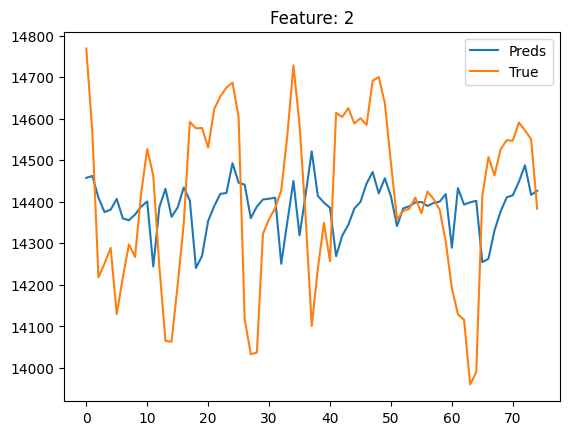
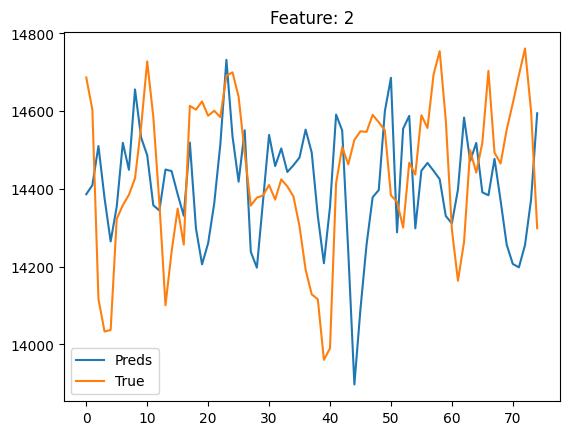
..

diff --git a/train.py b/train.py
@@ -18,9 +18,9 @@ def evaluate(model, loader, criterion):
 	with torch.no_grad():
 		for x, y in loader:
 			y_hat = model(x)
-			if y_hat.ndim == 2:
+			if y_hat.ndim == 3:
 				y_hat = y_hat.squeeze(1)
-			if y.ndim == 2:
+			if y.ndim == 3:
 				y = y.squeeze(1)
 
 			loss = criterion(y_hat, y)
@@ -29,7 +29,7 @@ def evaluate(model, loader, criterion):
 	return np.sqrt(np.array(losses).mean())
 
 
-def predict(model, loader, scaler, plot_name=''):
+def predict(model, loader, scaler, target_col=None, plot_name=''):
 	model.eval()
 
 	preds = []
@@ -46,12 +46,15 @@ def predict(model, loader, scaler, plot_name=''):
 	#	preds = model(x).detach().cpu().numpy().squeeze()
 
 	rmse = np.sqrt(mean_squared_error(true_y, preds))
-	if preds.shape[1] == 1:
-		scaler_input = np.zeros((x.shape[0], x.shape[2]))
-		scaler_input[:, 0] = preds
-		preds = scaler.inverse_transform(scaler_input)[:, [0]]
-		scaler_input[:, 0] = true_y
-		true_y = scaler.inverse_transform(scaler_input)[:, 0]
+	if target_col is not None:
+		scaler_input = np.zeros((preds.shape[0], x.shape[2]))
+		scaler_input[:, target_col] = preds
+		preds = scaler.inverse_transform(scaler_input)[:, target_col]
+		scaler_input[:, target_col] = true_y
+		true_y = scaler.inverse_transform(scaler_input)[:, target_col]
+
+		preds = np.expand_dims(preds, 1)
+		true_y = np.expand_dims(true_y, 1)
 	else:
 		preds = scaler.inverse_transform(preds)
 		true_y = scaler.inverse_transform(true_y)
@@ -60,7 +63,7 @@ def predict(model, loader, scaler, plot_name=''):
 	for i in range(preds.shape[1]):
 		plt.plot([j for j in range(len(preds))], preds[:, i].ravel(), label='Preds')
 		plt.plot([j for j in range(len(true_y))], true_y[:, i].ravel(), label='True')
-		plt.title(f'Feature: {i}')
+		plt.title(f'{plot_name} | Feature: {i}')
 		plt.legend()
 		plt.savefig(f'plots/{plot_name}_feature{i}.png', bbox_inches='tight')
 		plt.show()
@@ -164,9 +167,9 @@ if __name__ == '__main__':
 		for x, y in train_loader:
 			optimizer.zero_grad()
 			y_hat = model(x)
-			if y_hat.ndim == 2:
+			if y_hat.ndim == 3:
 				y_hat = y_hat.squeeze(1)
-			if y.ndim == 2:
+			if y.ndim == 3:
 				y = y.squeeze(1)
 			loss = torch.sqrt(criterion(y_hat, y))
 			loss.backward()
@@ -193,9 +196,11 @@ if __name__ == '__main__':
 	plt.close()
 
 	# Predict
-	rmse_train = predict(model, train_loader, scaler, plot_name='train_preds')
-	rmse_val = predict(model, val_loader, scaler, plot_name='val_preds')
-	rmse_test = predict(model, test_loader, scaler, plot_name='test_preds')
+	# Make train loader with no shuffle
+	train_loader = DataLoader(train_data, shuffle=False, batch_size=batch_size, drop_last=True)
+	rmse_train = predict(model, train_loader, scaler, target_col, plot_name='train_preds')
+	rmse_val = predict(model, val_loader, scaler, target_col, plot_name='val_preds')
+	rmse_test = predict(model, test_loader, scaler, target_col, plot_name='test_preds')
 
 	print(rmse_test)
 

diff --git a/utils.py b/utils.py
@@ -42,11 +42,8 @@ def process_gas_sensor_data(window_size=50, horizon=1, test_size=0.2, target_col
 	values = df.values
 	feature_names = df.columns.tolist()
 
-	print(values.min(0), values.max(0))
 	scaler = MinMaxScaler()
-	# target_scaler = MinMaxScaler()
 	values = scaler.fit_transform(values)
-	print(values.min(0), values.max(0))
 
 	# Create forecasting dataset
 	x, y = [], []
@@ -63,6 +60,8 @@ def process_gas_sensor_data(window_size=50, horizon=1, test_size=0.2, target_col
 
 		x.append(x_i)
 		y.append(y_i)
+
+	# if target_col is not None:
 
 	# Splitting in train, val, test
 	test_start = int(n - test_size * n)
@@ -125,4 +124,3 @@ def process_gas_sensor_data(window_size=50, horizon=1, test_size=0.2, target_col
 #
 # plt.plot([i for i in range(len(s1_s2))], s1_s2)
 # plt.show()
-
